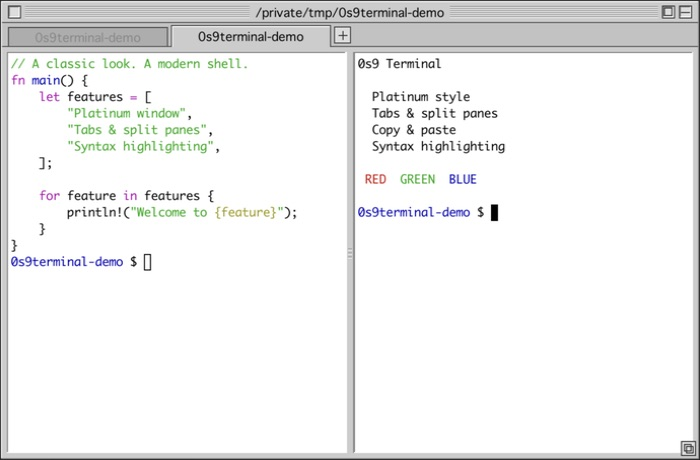
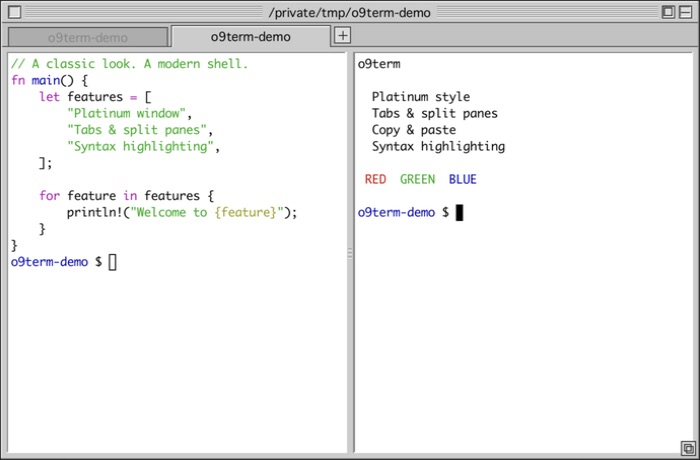
docs: update README screenshot and naming to o9term

diff --git a/docs/development.md b/docs/development.md
@@ -52,3 +52,8 @@ and adds the scoped zsh integration. Release users do not run this helper.
 Input highlighting is provided by zsh-syntax-highlighting.
 Use `bat file.rs` to view a code file, or `bat --paging=never file.rs` to avoid
 paging. The ANSI theme follows the terminal palette; existing BAT_THEME wins.
+
+## Configuration compatibility
+
+Settings remain at `~/.config/os9terminal/config.toml` to preserve existing
+installations after the project rename to o9term.
